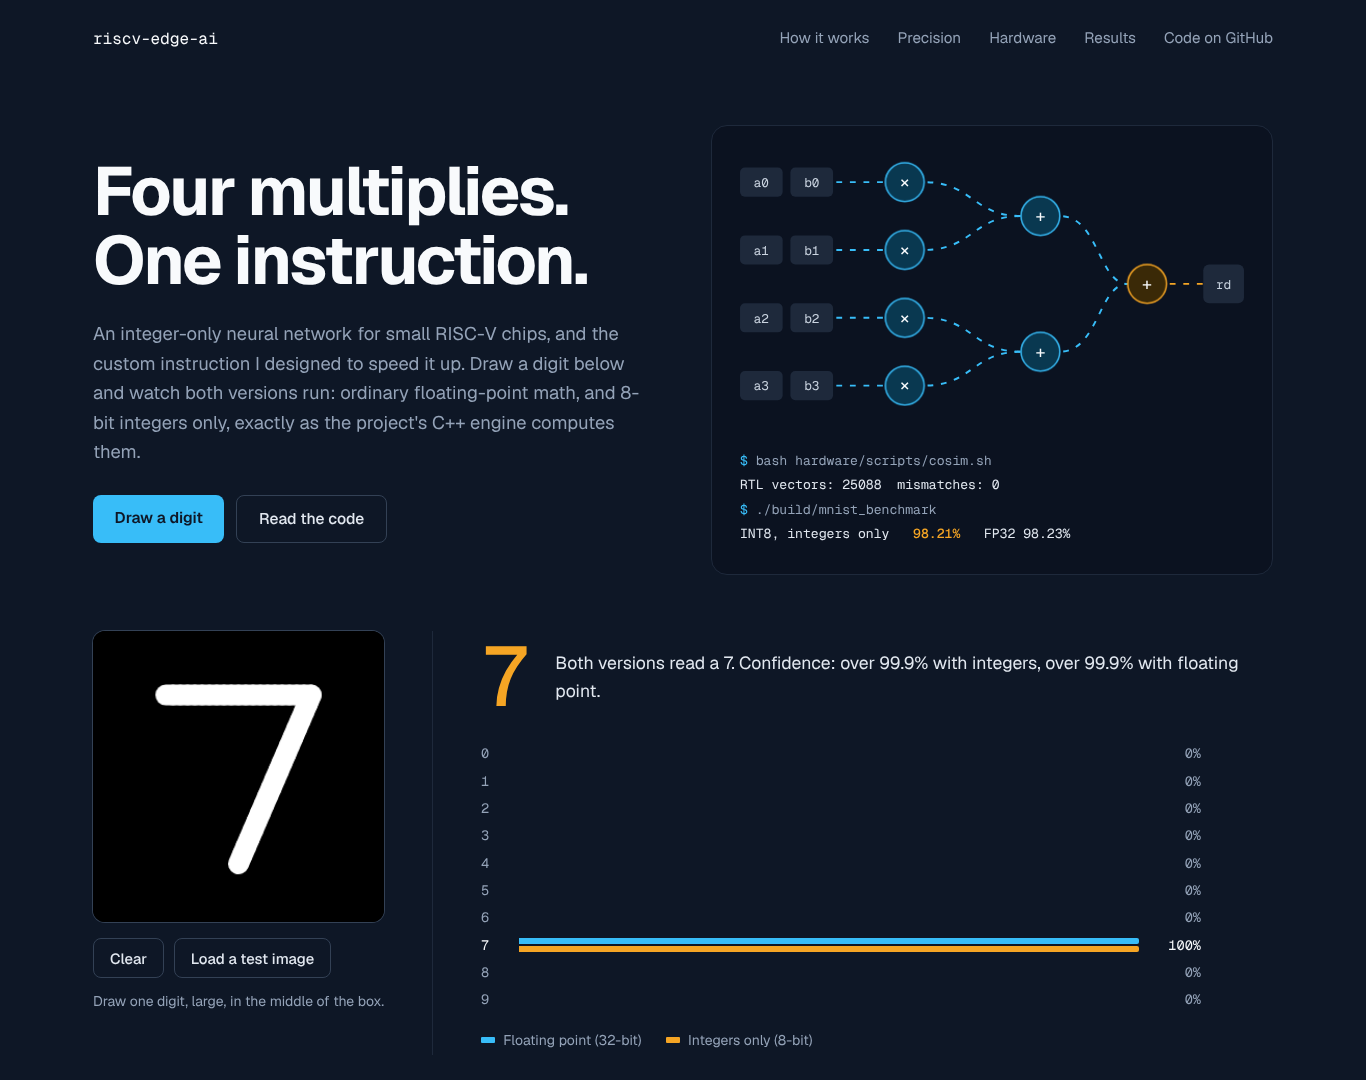
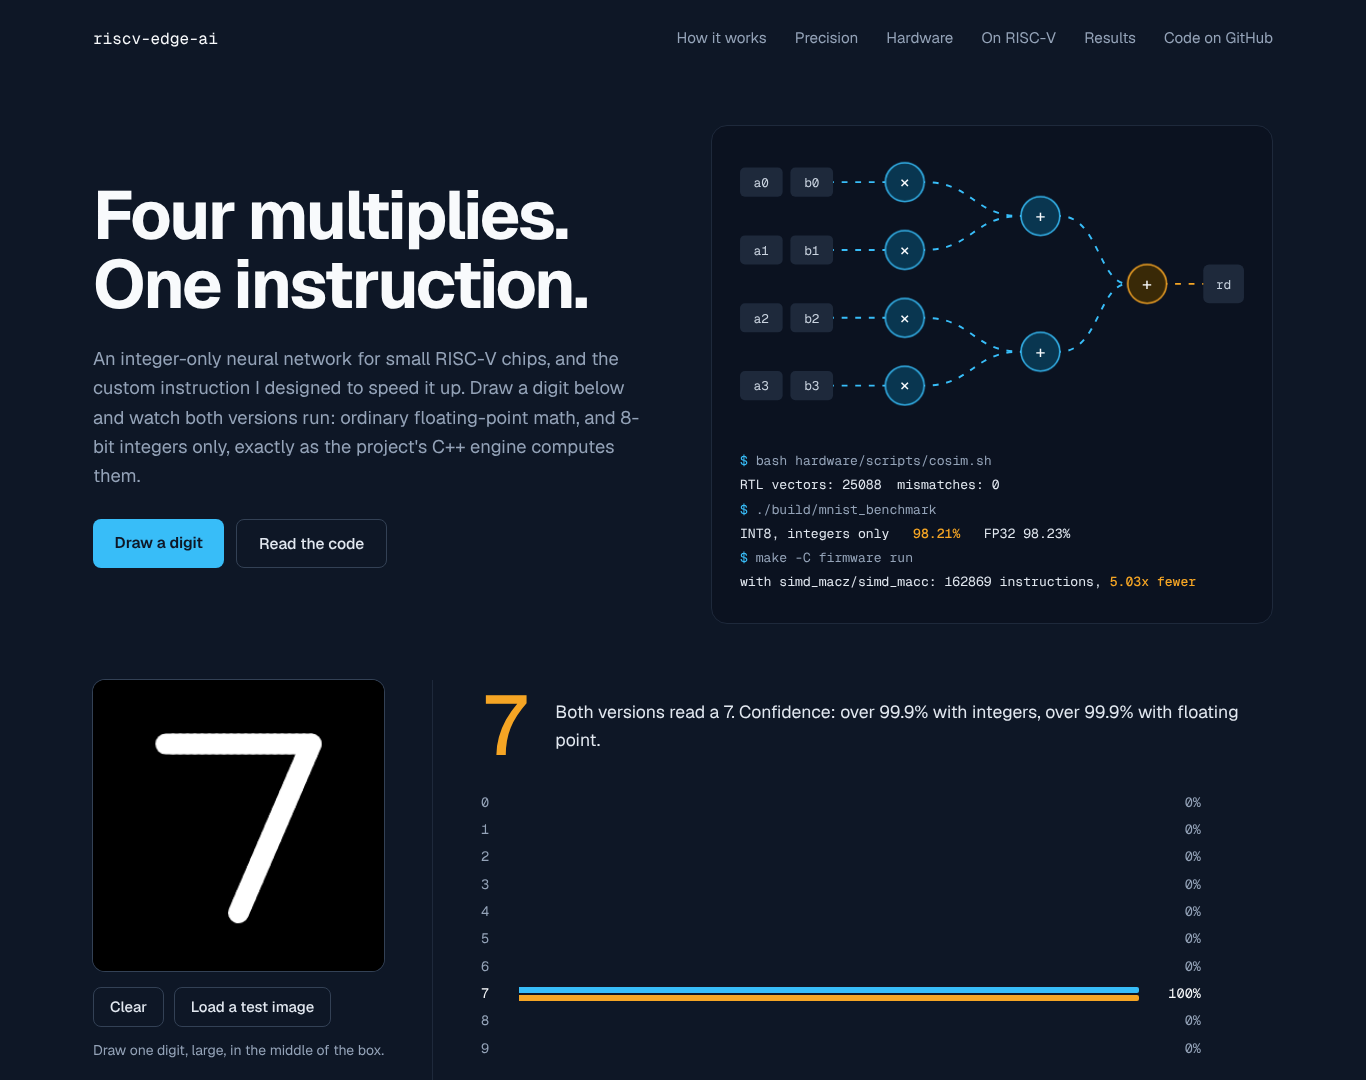
Show the speed-up on the demo's first screen

diff --git a/web/index.html b/web/index.html
@@ -79,6 +79,8 @@
           <span class="out">RTL vectors: 25088  mismatches: 0</span>
           <span class="cmd">./build/mnist_benchmark</span>
           <span class="out">INT8, integers only   <b id="t-int8">98.21%</b>   FP32 <span id="t-fp32">98.23%</span></span>
+          <span class="cmd">make -C firmware run</span>
+          <span class="out" id="t-fw">with simd_macz/simd_macc: 162869 instructions, <b>5.03x fewer</b></span>
         </figcaption>
       </figure>
     </section>
@@ -306,6 +308,6 @@ RESULT: all outputs match the C++ engine</pre>
   <script src="js/quant_params.js?v=4"></script>
   <script src="js/results.js?v=6"></script>
   <script src="js/int8_engine.js?v=4"></script>
-  <script src="js/app.js?v=6"></script>
+  <script src="js/app.js?v=7"></script>
 </body>
 </html>

diff --git a/web/js/app.js b/web/js/app.js
@@ -25,6 +25,14 @@
   });
   if (RES.firmware) {
     if (RES.firmware.log) $("spike-log").textContent = RES.firmware.log.join("\n");
+    // Hero: the firmware's own speed-up line, exactly as it printed it.
+    const line = (RES.firmware.log || []).find((l) => l.startsWith("with simd_macz/simd_macc:"));
+    if (line) {
+      const m = line.match(/^(.*instructions, )(.*)$/);
+      $("t-fw").innerHTML = "";
+      $("t-fw").append(m ? m[1] : line);
+      if (m) { const b = document.createElement("b"); b.textContent = m[2]; $("t-fw").append(b); }
+    }
     $("ipm").textContent = (RES.firmware.instructionsPerInference / RES.firmware.macsPerInference).toFixed(1);
     const base = RES.firmware.instructionsPerInference;
     const showBar = (row, value) => {
